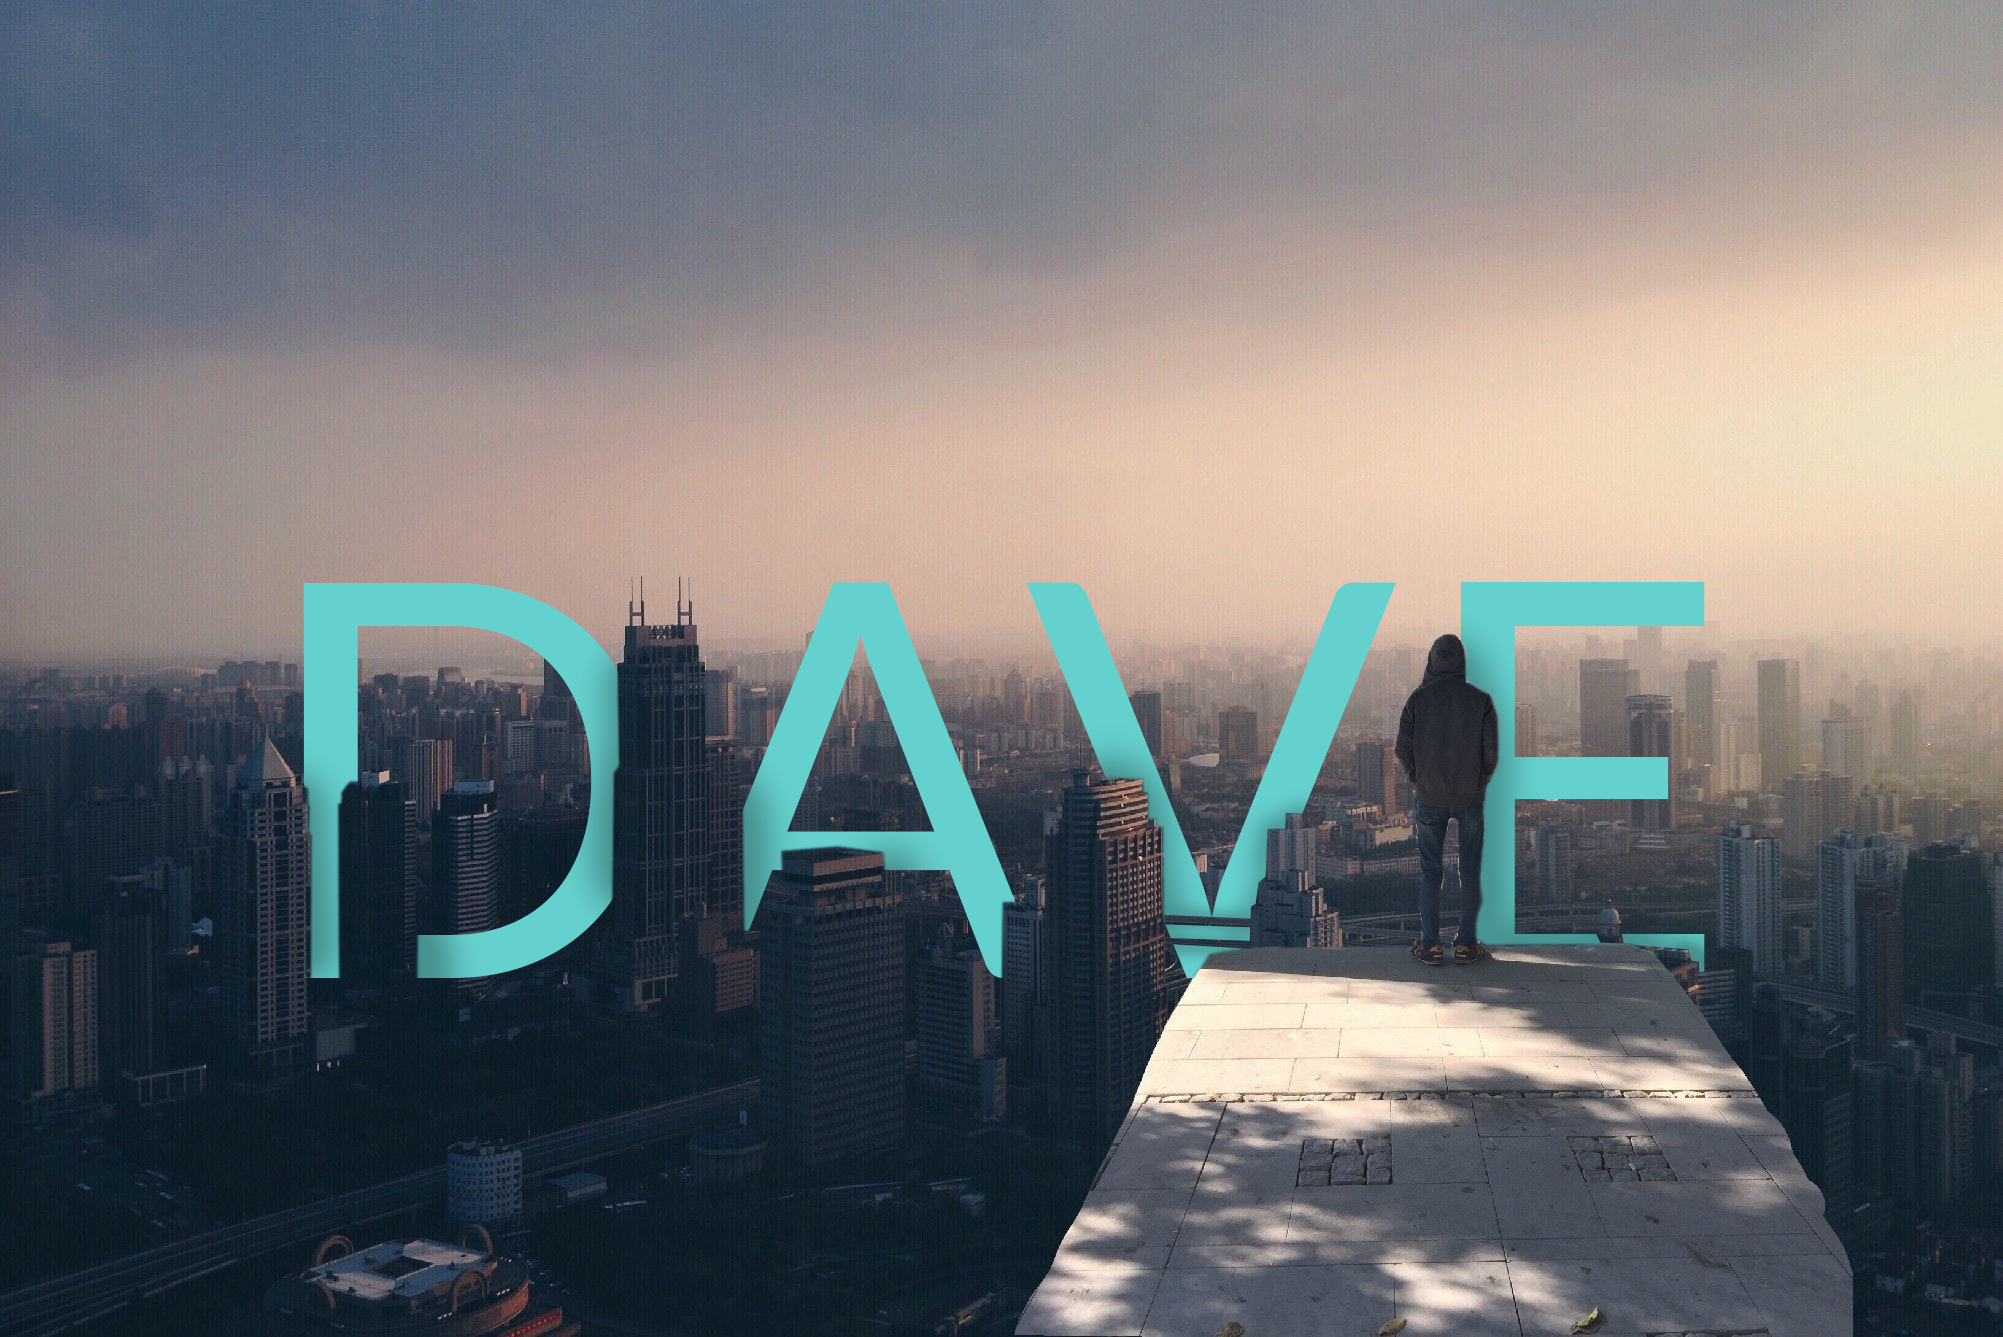
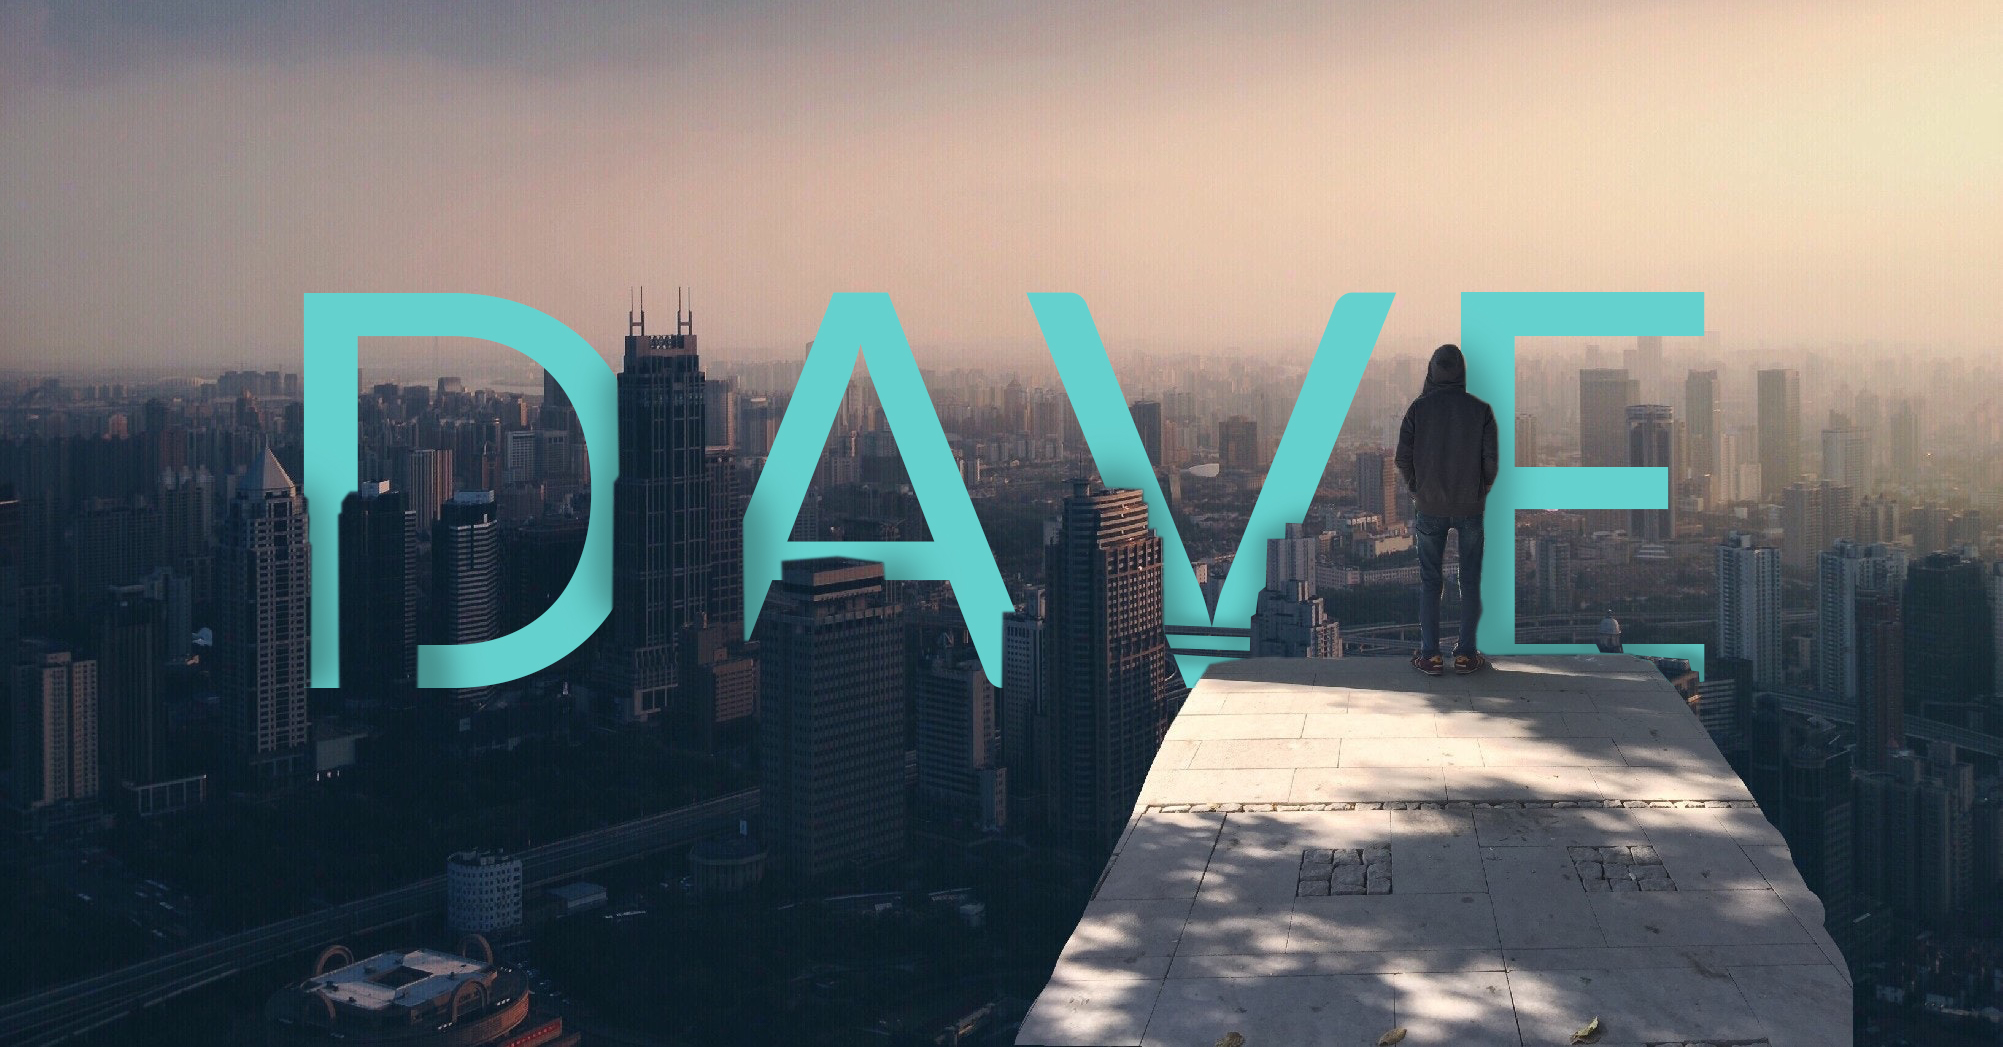
edit home background image

diff --git a/src/pages/index.module.scss b/src/pages/index.module.scss
@@ -1,9 +1,9 @@
 .background {
   height: 100vh;
 
-  &:before {
-    background-position: 0px 70%;
-  }
+  // &:before {
+  //   background-position: 0px 70%;
+  // }
 
   h2 {
     position: absolute;

diff --git a/src/components/Button/Button.module.scss b/src/components/Button/Button.module.scss
@@ -1,5 +1,5 @@
 .Button {
-  background-color: rgba(235, 52, 132, 0.45);
+  background-color: rgba(235, 52, 132, 0.44);
   color: #fff;
   font-size: 2.2rem;
   font-family: inherit;
